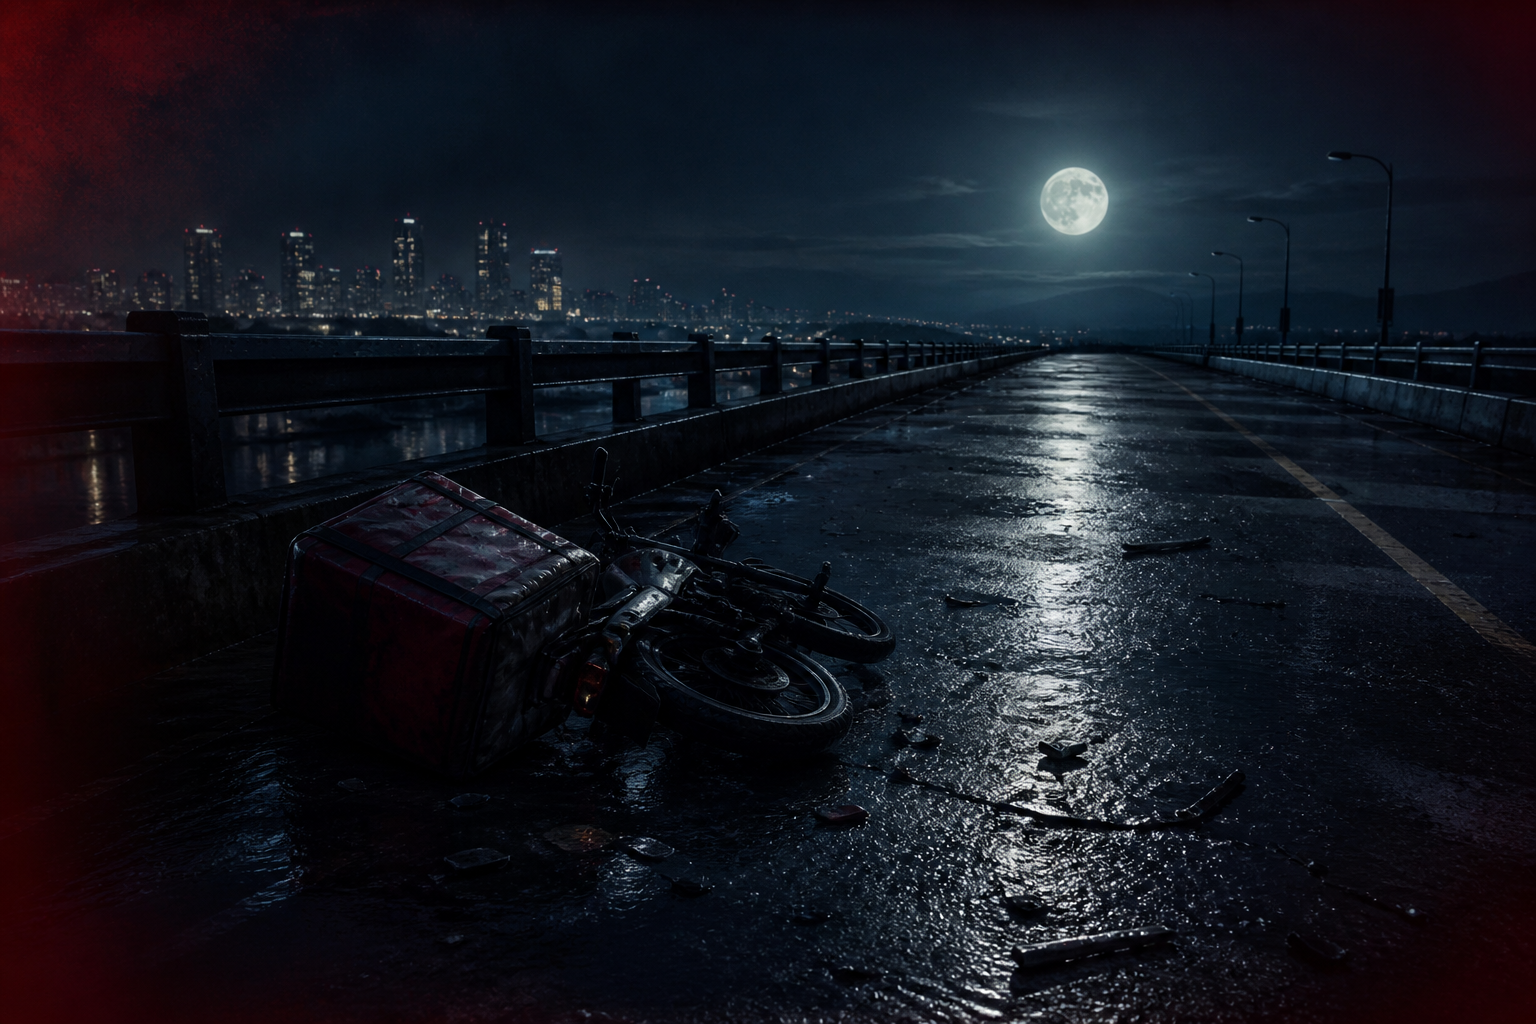
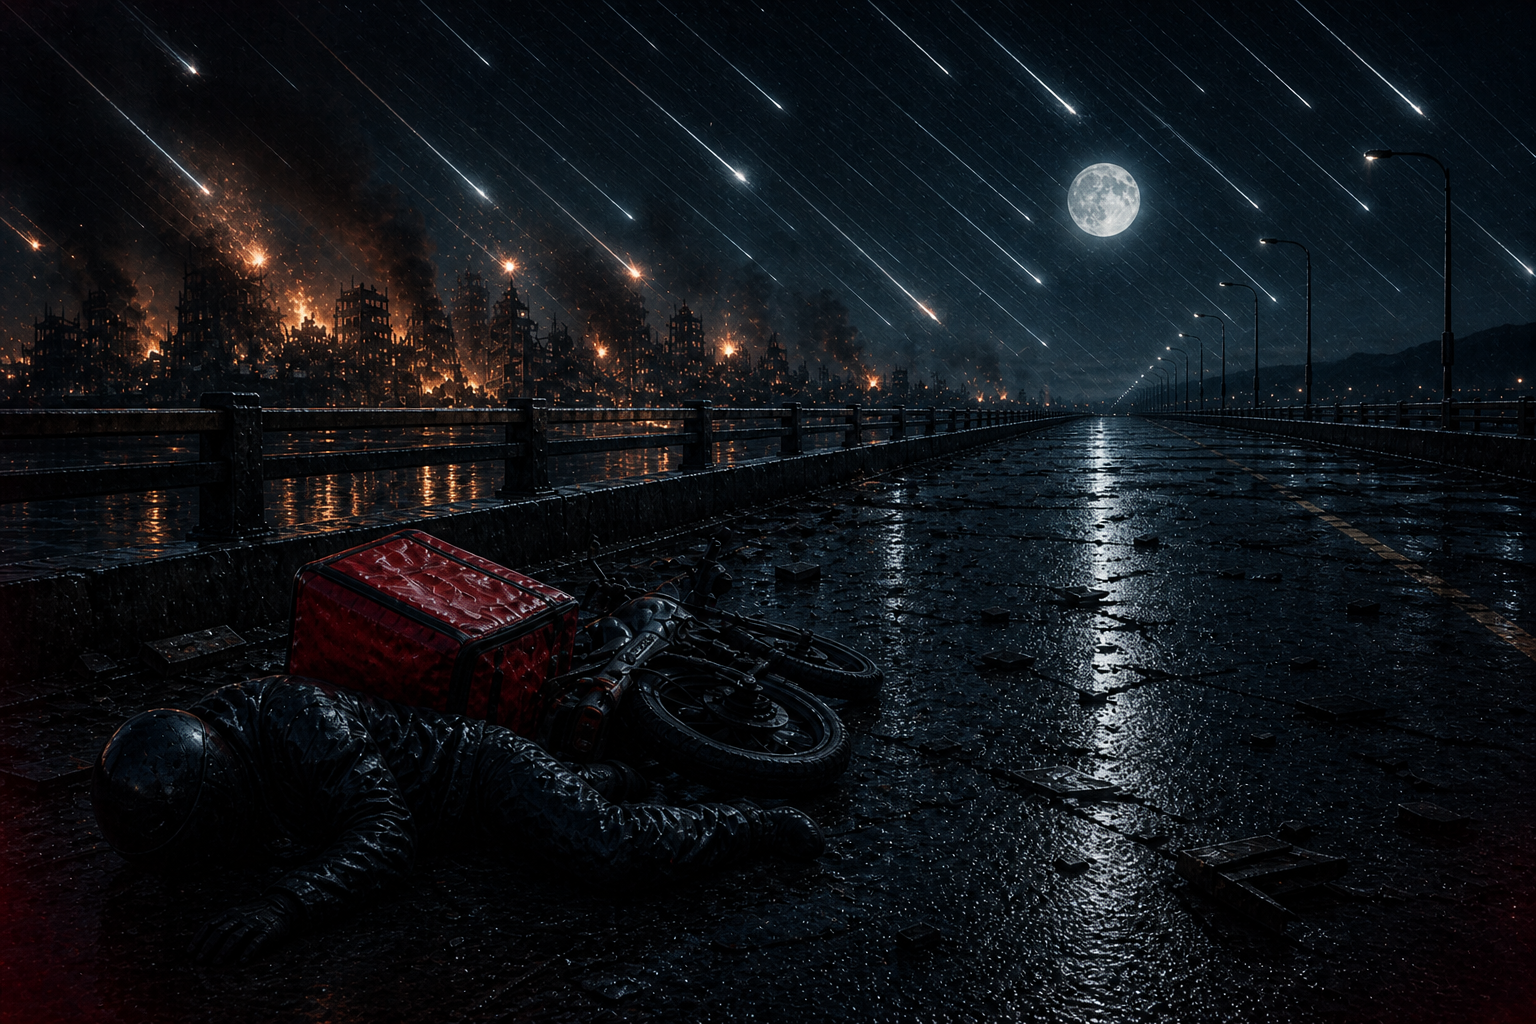
Ship 0.4.33: meteor debrief still and on-call phone hand.
Replace the Way Back aftermath photo with parallel falling stars and distant hits; show a hand with phone by the rider’s ear when a call is accepted.

diff --git a/src/player.js b/src/player.js
@@ -91,6 +91,79 @@ export function createPlayer(scene) {
   head.position.set(0, 2.05, 0.02);
   body.add(head);
 
+  // Hand + phone — pops in beside the ear while on a call
+  const skinMat = new THREE.MeshStandardMaterial({ color: 0xe0b898, roughness: 0.7 });
+  const phoneShellMat = new THREE.MeshStandardMaterial({
+    color: 0x151820,
+    roughness: 0.35,
+    metalness: 0.55,
+  });
+  const phoneScreenMat = new THREE.MeshStandardMaterial({
+    color: 0x5cffb0,
+    emissive: 0x3dff9a,
+    emissiveIntensity: 2.4,
+    roughness: 0.25,
+  });
+  const phoneHand = new THREE.Group();
+  phoneHand.visible = false;
+  phoneHand.scale.setScalar(0);
+  body.add(phoneHand);
+
+  const forearm = new THREE.Mesh(new THREE.CapsuleGeometry(0.04, 0.14, 3, 6), skinMat);
+  forearm.position.set(-0.04, -0.1, 0.02);
+  forearm.rotation.z = -1.05;
+  forearm.rotation.x = 0.35;
+  phoneHand.add(forearm);
+
+  const palm = new THREE.Mesh(new THREE.BoxGeometry(0.09, 0.07, 0.045), skinMat);
+  palm.position.set(0.05, 0.01, 0.05);
+  palm.rotation.set(0.2, 0.45, -0.35);
+  phoneHand.add(palm);
+
+  for (let f = 0; f < 3; f++) {
+    const finger = new THREE.Mesh(new THREE.BoxGeometry(0.022, 0.055, 0.02), skinMat);
+    finger.position.set(0.08 + f * 0.02, 0.05, 0.06 + f * 0.008);
+    finger.rotation.set(0.5, 0.2, -0.2);
+    phoneHand.add(finger);
+  }
+
+  const phoneMesh = new THREE.Group();
+  phoneMesh.position.set(0.09, 0.05, 0.1);
+  phoneMesh.rotation.set(0.25, 0.65, -0.2);
+  const phoneBody = new THREE.Mesh(new THREE.BoxGeometry(0.08, 0.16, 0.018), phoneShellMat);
+  const phoneScreen = new THREE.Mesh(new THREE.BoxGeometry(0.062, 0.12, 0.006), phoneScreenMat);
+  phoneScreen.position.z = 0.012;
+  phoneMesh.add(phoneBody, phoneScreen);
+  phoneHand.add(phoneMesh);
+
+  let phoneBlend = 0;
+  let phonePhase = 0;
+
+  function syncPhoneHand(dt) {
+    const want = api.onCall && !api.tumbling && !api.lurching;
+    phoneBlend = THREE.MathUtils.damp(phoneBlend, want ? 1 : 0, want ? 18 : 14, dt);
+    if (phoneBlend < 0.02) {
+      phoneHand.visible = false;
+      phoneHand.scale.setScalar(0);
+      return;
+    }
+    phonePhase += dt;
+    phoneHand.visible = true;
+    phoneHand.scale.setScalar(phoneBlend);
+    // Right ear — slight talk bob
+    phoneHand.position.set(
+      0.28 + phoneBlend * 0.02,
+      2.02 + Math.sin(phonePhase * 3.2) * 0.014,
+      0.05 + Math.sin(phonePhase * 2.1) * 0.008,
+    );
+    phoneHand.rotation.set(
+      0.12 + Math.sin(phonePhase * 2.4) * 0.04,
+      0.5,
+      -0.4 + Math.sin(phonePhase * 1.8) * 0.05,
+    );
+    phoneScreenMat.emissiveIntensity = 1.8 + Math.sin(phonePhase * 6) * 0.5;
+  }
+
   const stripe = new THREE.Mesh(new THREE.BoxGeometry(0.38, 0.12, 0.2), accentMat);
   stripe.position.set(0, 1.55, -0.12);
   body.add(stripe);
@@ -286,6 +359,10 @@ export function createPlayer(scene) {
       group.position.y = 0;
       rider.rotation.z = 0;
       head.position.x = 0;
+      phoneBlend = 0;
+      phonePhase = 0;
+      phoneHand.visible = false;
+      phoneHand.scale.setScalar(0);
       for (const bit of angerBits) {
         bit.life = 0;
         bit.mesh.visible = false;
@@ -398,6 +475,7 @@ export function createPlayer(scene) {
         trail.material.opacity = 0.15;
         headLight.intensity = 4;
         updateAnger(dt);
+        syncPhoneHand(dt);
         return { forward: api.speed, boosting: false, stalled: false, lurching: true };
       }
 
@@ -413,6 +491,7 @@ export function createPlayer(scene) {
         trail.material.opacity = 0;
         headLight.intensity = 1.2;
         updateAnger(dt);
+        syncPhoneHand(dt);
         return { forward: 0, boosting: false, stalled: false, tumbling: true };
       }
 
@@ -427,6 +506,7 @@ export function createPlayer(scene) {
         headLight.intensity = 3;
 
         updateAnger(dt);
+        syncPhoneHand(dt);
 
         // Hold W to push off again
         if (input.throttle > 0.5) {
@@ -559,7 +639,8 @@ export function createPlayer(scene) {
       body.position.x = Math.sin(api.pedalPhase) * wobbleAmp * 0.2;
 
       rider.rotation.z = Math.sin(api.pedalPhase) * 0.05;
-      head.position.x = Math.sin(api.pedalPhase) * 0.015;
+      syncPhoneHand(dt);
+      head.position.x = Math.sin(api.pedalPhase) * 0.015 + phoneBlend * 0.05;
 
       const spin = api.speed * dt * 2.2;
       frontWheel.rotation.z -= spin;

diff --git a/src/main.js b/src/main.js
@@ -690,7 +690,7 @@ function showFinale() {
   els.endTitle.textContent = 'THIS NIGHT';
   els.endLead.textContent = 'did not go as you planned.';
 
-  els.debriefImg.src = level.debriefPhoto;
+  els.debriefImg.src = `${level.debriefPhoto}?v=${VERSION}`;
   els.debriefImg.alt = 'Aftermath still';
   els.debriefStamp.textContent = `STILL · ${level.name} · ${Math.floor(score)}m`;
   els.debriefLine.textContent = `“${level.debriefQuote}”`;
@@ -1092,7 +1092,7 @@ function endRun(won) {
     els.endTitle.textContent = level.subtitle.toUpperCase();
     els.endLead.textContent = '';
 
-    els.debriefImg.src = level.debriefPhoto;
+    els.debriefImg.src = `${level.debriefPhoto}?v=${VERSION}`;
     els.debriefImg.alt = `Delivery still — ${level.subtitle}`;
     els.debriefStamp.textContent = `STILL · ${level.name} · ${Math.floor(score)}m`;
     els.debriefLine.textContent = `“${level.debriefQuote}”`;

diff --git a/src/version.js b/src/version.js
@@ -3,4 +3,4 @@
  * Bump whenever you change gameplay, UI, audio, or deploy config.
  * Shown bottom-right in the client.
  */
-export const VERSION = '0.4.30';
+export const VERSION = '0.4.33';
